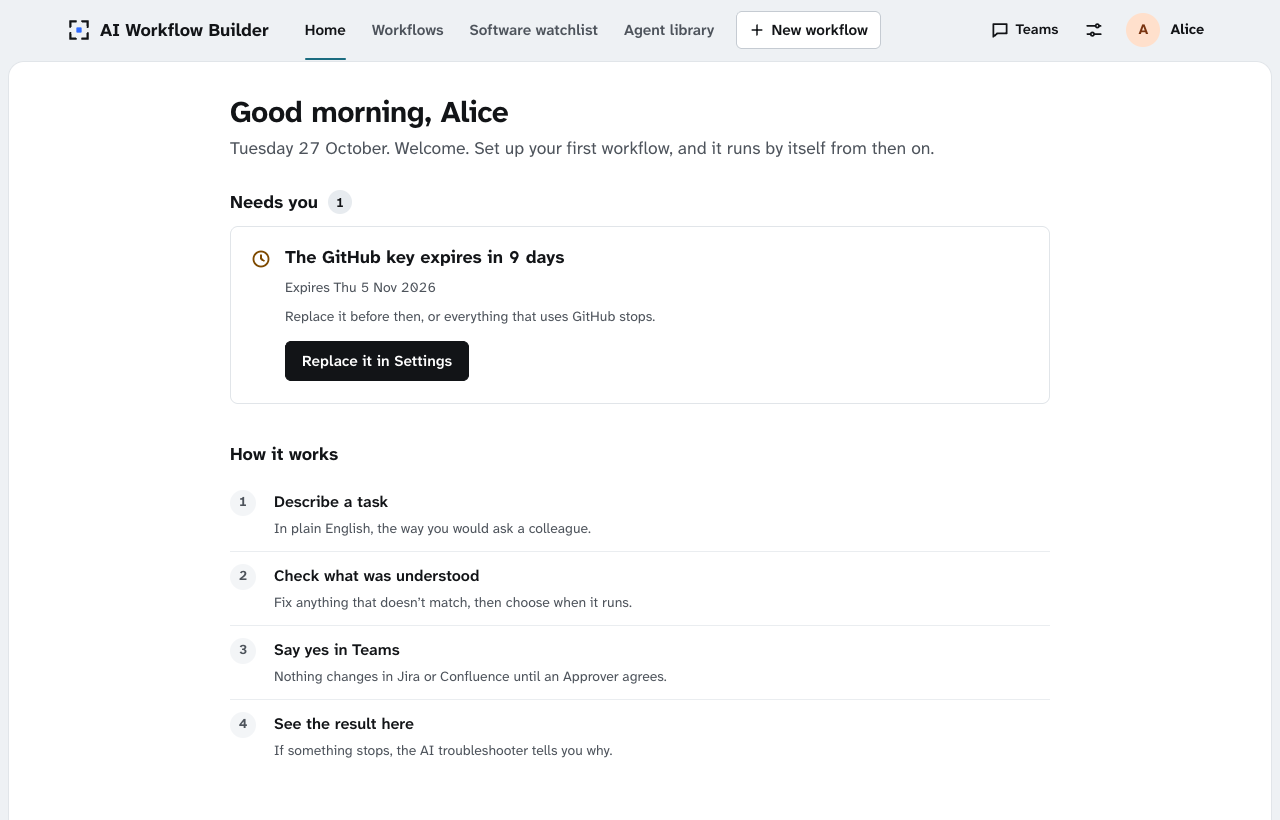
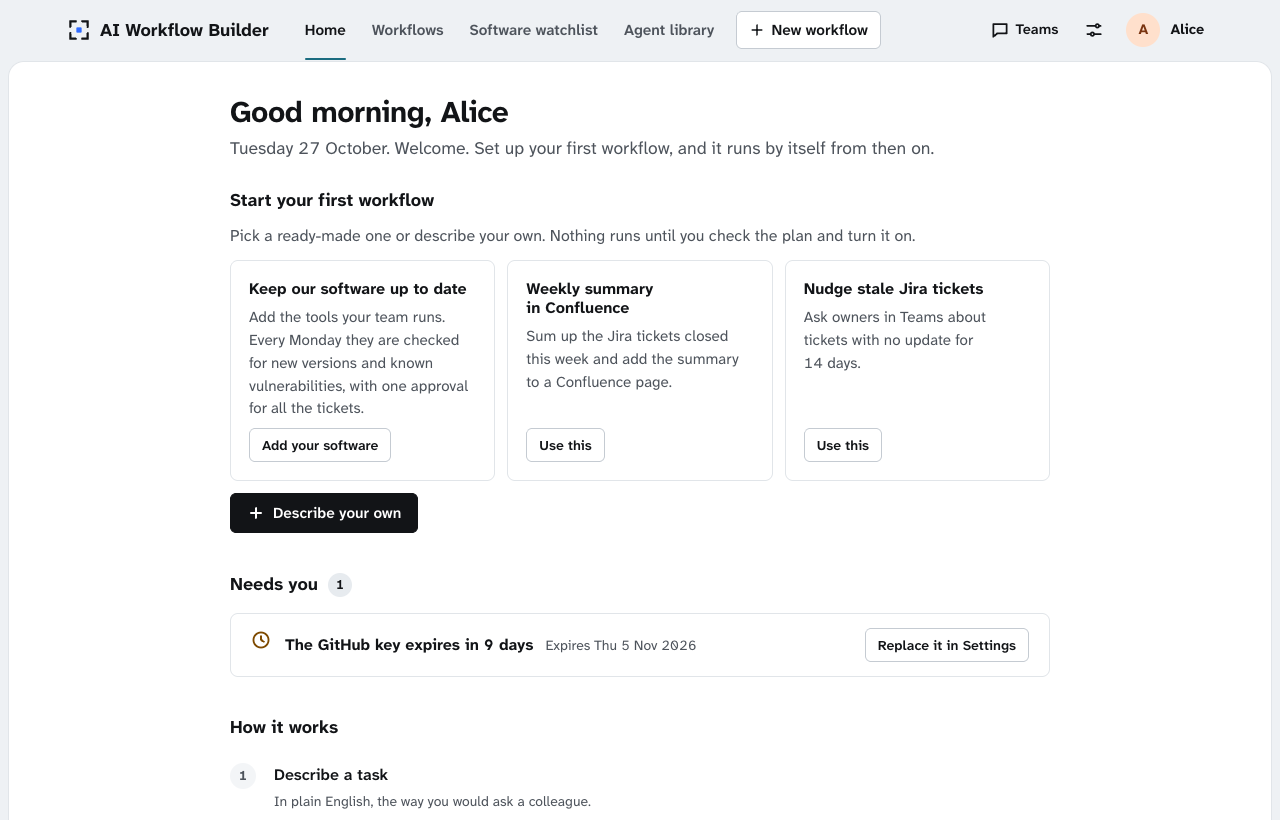
docs(docs): show the starter workflows and what needs you on day one
On day one an Operator sees "Start your first workflow" first, with the
ready-made workflows and "Describe your own". Anything that already needs
them, such as a key about to expire, follows as a short row, so the page
keeps one main button.

Claude-Session: https://claude.ai/code/session_0163kLzc62RqJZvY6wd8CwRb

diff --git a/docs/design/portal-routines/prototype.html b/docs/design/portal-routines/prototype.html
@@ -1738,10 +1738,14 @@ details.more .more-body { padding-top: 8px; }
       ? (me().op ? 'Welcome. Set up your first workflow, and it runs by itself from then on.' : 'Nothing needs you yet. When a workflow wants to change something, it shows up here and in Teams.')
       : n === 0 ? 'Nothing needs you right now. Your workflows are running.' : `${n === 1 ? '1 thing needs' : `${n} things need`} you. Everything else is running.`;
     const firstLive = coming.find(([id]) => !S.paused[id]);
-    const main = dayOne && me().op && n === 0 ? firstRoutine() : `<section class="section" aria-labelledby="needs-h">
+    /* On day one an Operator's first workflow comes first. Anything that already needs them, such as a key about to expire,
+       follows as short rows, so the page keeps one main button. */
+    const starterFirst = dayOne && me().op;
+    const needsSec = `<section class="section" aria-labelledby="needs-h">
           <h2 id="needs-h">Needs you <span class="count">${n}</span></h2>
-          ${n ? `${taskCard(items[0])}${n > 1 ? `<ul class="queue" aria-label="Also needs you">${items.slice(1).map(queueRow).join('')}</ul>` : ''}` : `<div class="quiet"><b>All quiet</b>${firstLive ? `Next up: <button class="linkbtn" data-act="workflow" data-arg="${firstLive[0]}">${esc(firstLive[1].name)}</button>, ${firstLive[1].next}.` : 'Nothing is scheduled yet.'}</div>`}
+          ${starterFirst ? `<ul class="queue" aria-label="Needs you">${items.map(queueRow).join('')}</ul>` : n ? `${taskCard(items[0])}${n > 1 ? `<ul class="queue" aria-label="Also needs you">${items.slice(1).map(queueRow).join('')}</ul>` : ''}` : `<div class="quiet"><b>All quiet</b>${firstLive ? `Next up: <button class="linkbtn" data-act="workflow" data-arg="${firstLive[0]}">${esc(firstLive[1].name)}</button>, ${firstLive[1].next}.` : 'Nothing is scheduled yet.'}</div>`}
         </section>`;
+    const main = starterFirst ? `${firstRoutine()}${n ? needsSec : ''}` : needsSec;
     const following = has('nudge') && S.report > 0 && S.report < 4 && S.user === 'alice' ? `<section class="section" aria-labelledby="fu-h"><h2 id="fu-h">Following up</h2>
           <article class="panel"><div><div class="task-title">Stale ticket nudge: reported to support</div><div class="task-meta">Support has the run and the troubleshooter’s notes.</div></div>${caseBox()}${reportTrack(true)}</article></section>` : '';
     const draftSub = S.tool === 'asked' && S.wiz.intent && needsTool(draftNr()) ? 'Waiting for an Approver to OK a new tool.' : S.tool === 'ok' && S.wiz.intent && needsTool(draftNr()) ? 'The new tool is OK’d. Ready to carry on.' : `Step ${S.wiz.step} of 4. Pick up where you left off.`;

diff --git a/docs/design/portal-routines.md b/docs/design/portal-routines.md
@@ -87,7 +87,7 @@ flowchart LR
 
 ### 1. First visit
 
-A new Operator lands on Home. Instead of an empty page, it shows three ready-made workflows, "Describe your own", and how it works in 4 steps.
+A new Operator lands on Home. Instead of an empty page, it shows three ready-made workflows, "Describe your own", and how it works in 4 steps. Anything that already needs them, such as a key about to expire, shows under the ready-made workflows as a short row.
 
 ![Home on day one](portal-routines/day-one.png)
 
